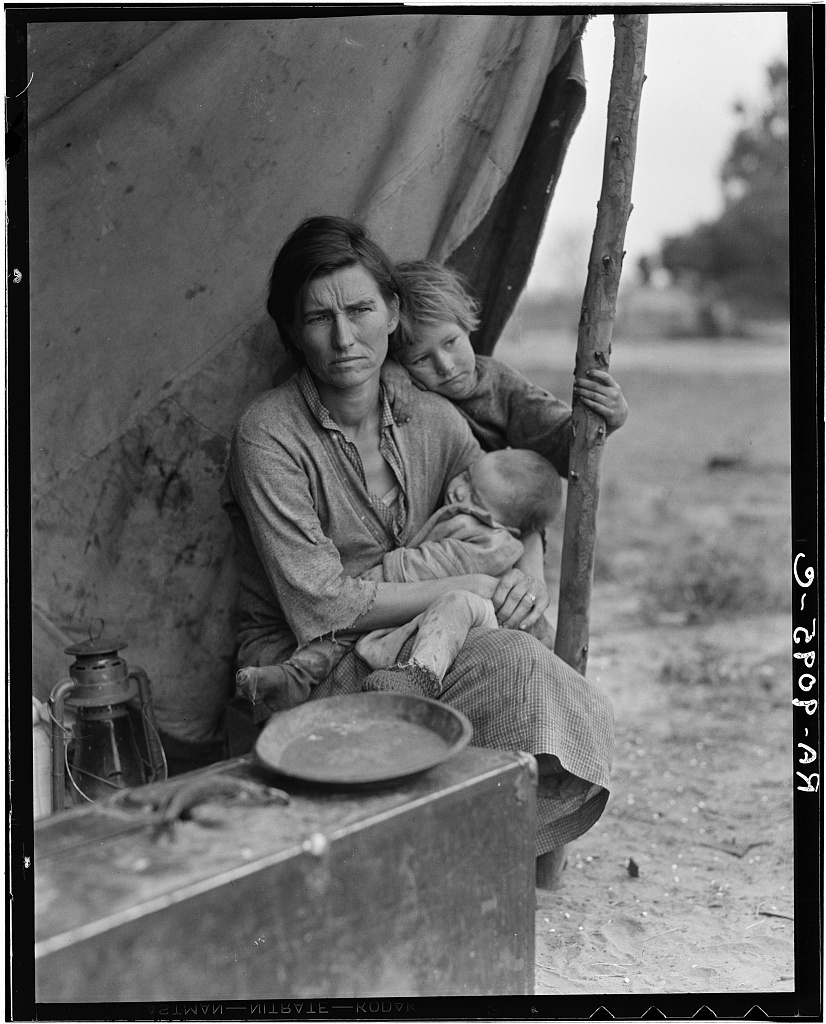
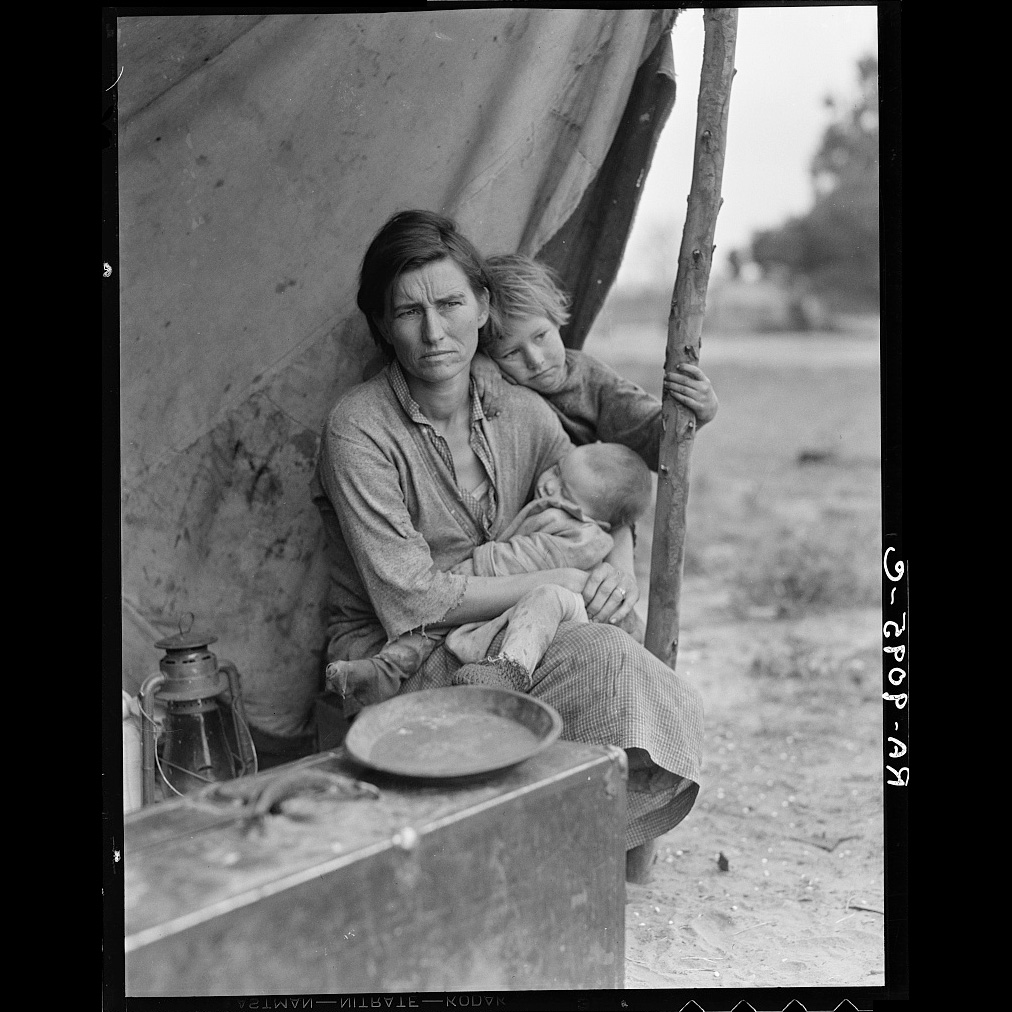
Fix annotation image aspect ratio and default styles

diff --git a/content/_assets/styles/components/q-figure.scss b/content/_assets/styles/components/q-figure.scss
@@ -590,3 +590,19 @@ div.multimedia {
     background-color: inherit!important;
   }
 }
+
+/** ANNOTATION CONTROLS **/
+
+.annotations-ui {
+  font-size: .75em;
+  font-weight: 600;
+  margin-top: .5rem;
+
+  .annotations-ui__input-wrapper {
+    display: inline;
+
+    &:not(:last-child) {
+      margin-right: 1rem;
+    }
+  }
+}

diff --git a/content/_assets/styles/components/q-lightbox-slides.scss b/content/_assets/styles/components/q-lightbox-slides.scss
@@ -149,8 +149,8 @@
     bottom: 0;
     width: 100%;
     display: flex;
-    align-items: flex-end;
-    justify-content: space-between;
+    flex-direction: column-reverse;
+    align-items: flex-start;
     padding: 0 0 16px 10px;
     box-sizing: border-box;
     font-size: 0.875rem;
